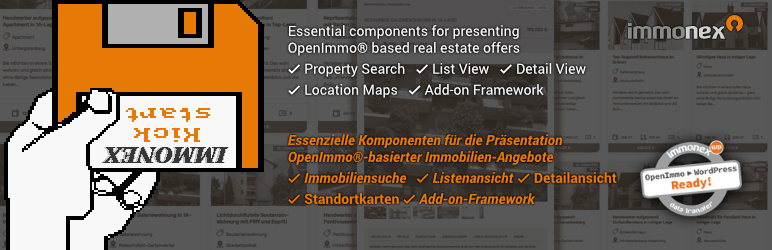
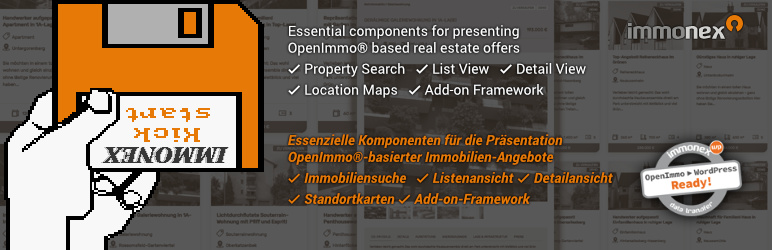
chore: prepare release version 1.3.0
- update version in all relevant files
 - update readme and changelog
 - update banner image (small version)

Changed region(s): [[0.3731, 0.756, 0.715, 0.84], [0.6839, 0.672, 0.8083, 0.756]]

diff --git a/src/includes/class-kickstart.php b/src/includes/class-kickstart.php
@@ -16,7 +16,7 @@ class Kickstart extends \immonex\WordPressFreePluginCore\V1_1_4\Base {
 	const PLUGIN_PREFIX              = 'inx_';
 	const PUBLIC_PREFIX              = 'inx-';
 	const TEXTDOMAIN                 = 'immonex-kickstart';
-	const PLUGIN_VERSION             = '1.2.14-beta';
+	const PLUGIN_VERSION             = '1.3.0';
 	const PLUGIN_HOME_URL            = 'https://de.wordpress.org/plugins/immonex-kickstart/';
 	const PLUGIN_DOC_URLS            = array(
 		'de' => 'https://docs.immonex.de/kickstart/',

diff --git a/src/immonex-kickstart.php b/src/immonex-kickstart.php
@@ -3,7 +3,7 @@
  * Plugin Name:       immonex Kickstart
  * Plugin URI:        https://wordpress.org/plugins/immonex-kickstart/
  * Description:       Essential components and add-on framework for embedding and searching/filtering imported OpenImmo-XML-based real estate offers
- * Version:           1.2.14-beta
+ * Version:           1.3.0
  * Requires at least: 4.7
  * Requires PHP:      5.6
  * Author:            inveris OHG / immonex
